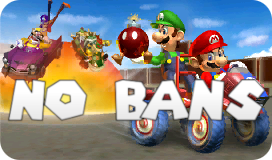
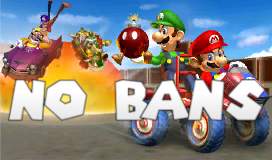
small design adjustments

diff --git a/index.html b/index.html
@@ -29,7 +29,7 @@
         <div class="jumbotron">
             <div class="row">
                 <div class="col-sm mb-2" id="cupsColumn">
-                    <h2>Cups</h2>
+                    <h2>Selected cups</h2>
                     <div class="logo-card">
                         <div class="cup-selected-logo" id="mushroomCupMKDD">
                             <img src="images/tracks/marioKartDoubleDash/cups/MushroomCupLogo_MKDD.jpg" alt="...">
@@ -53,7 +53,7 @@
                 </div>
                 <hr class="mt-3 d-flex d-md-none"><!-- Display:none on medium or larger screen -->
                 <div class="col-sm mb-2" id="bansColumn">
-                    <h2>Ban tracks</h2>
+                    <h2>Banned tracks</h2>
                     <div class="logo-card">
                         <!-- <img src="images/tracks/marioKartDoubleDash/tracks/mushroomCup/LuigiCircuitLogo-MKDD.jpg" alt="..."> -->
                     </div>

diff --git a/styles.css b/styles.css
@@ -25,6 +25,10 @@ body {
     margin-bottom: 1rem;
 }
 
+img {
+    border-radius: 0.25rem;
+}
+
 .test-border {
     border: solid 5px red;
 }
